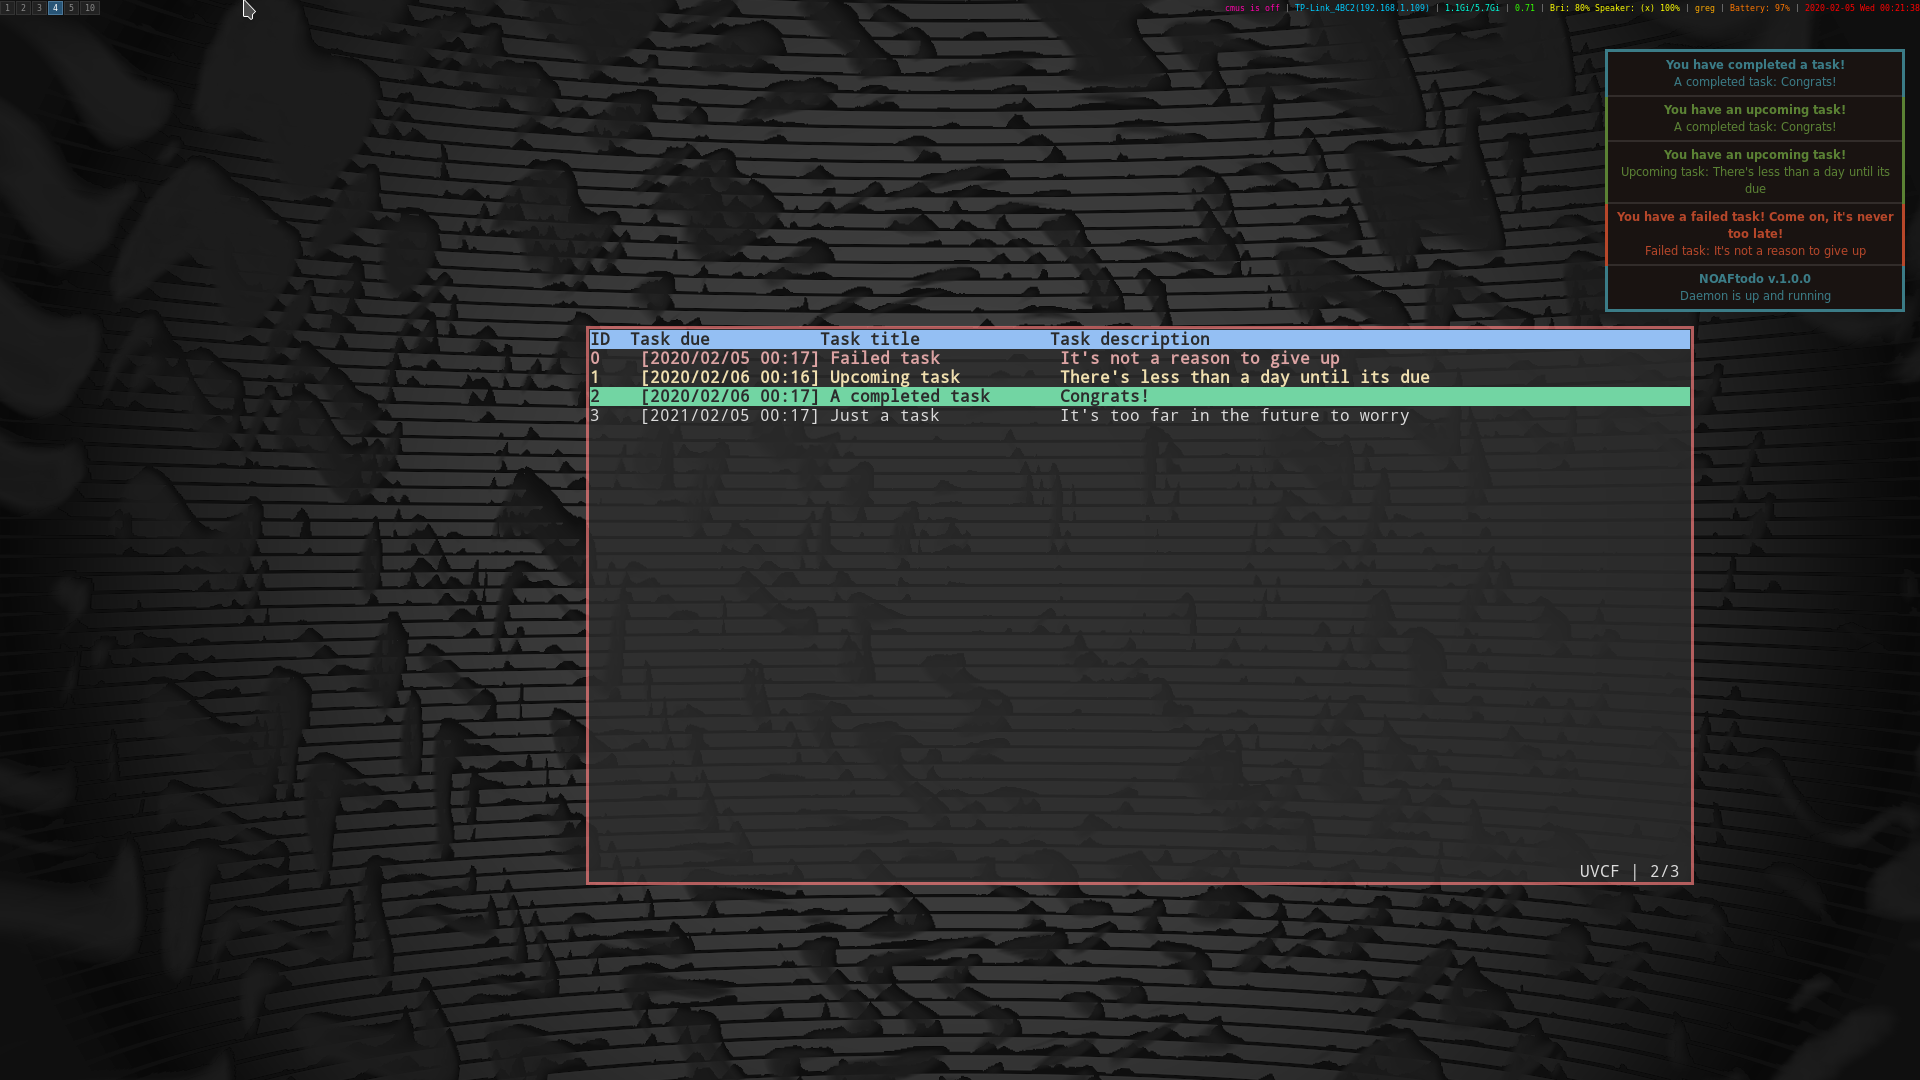
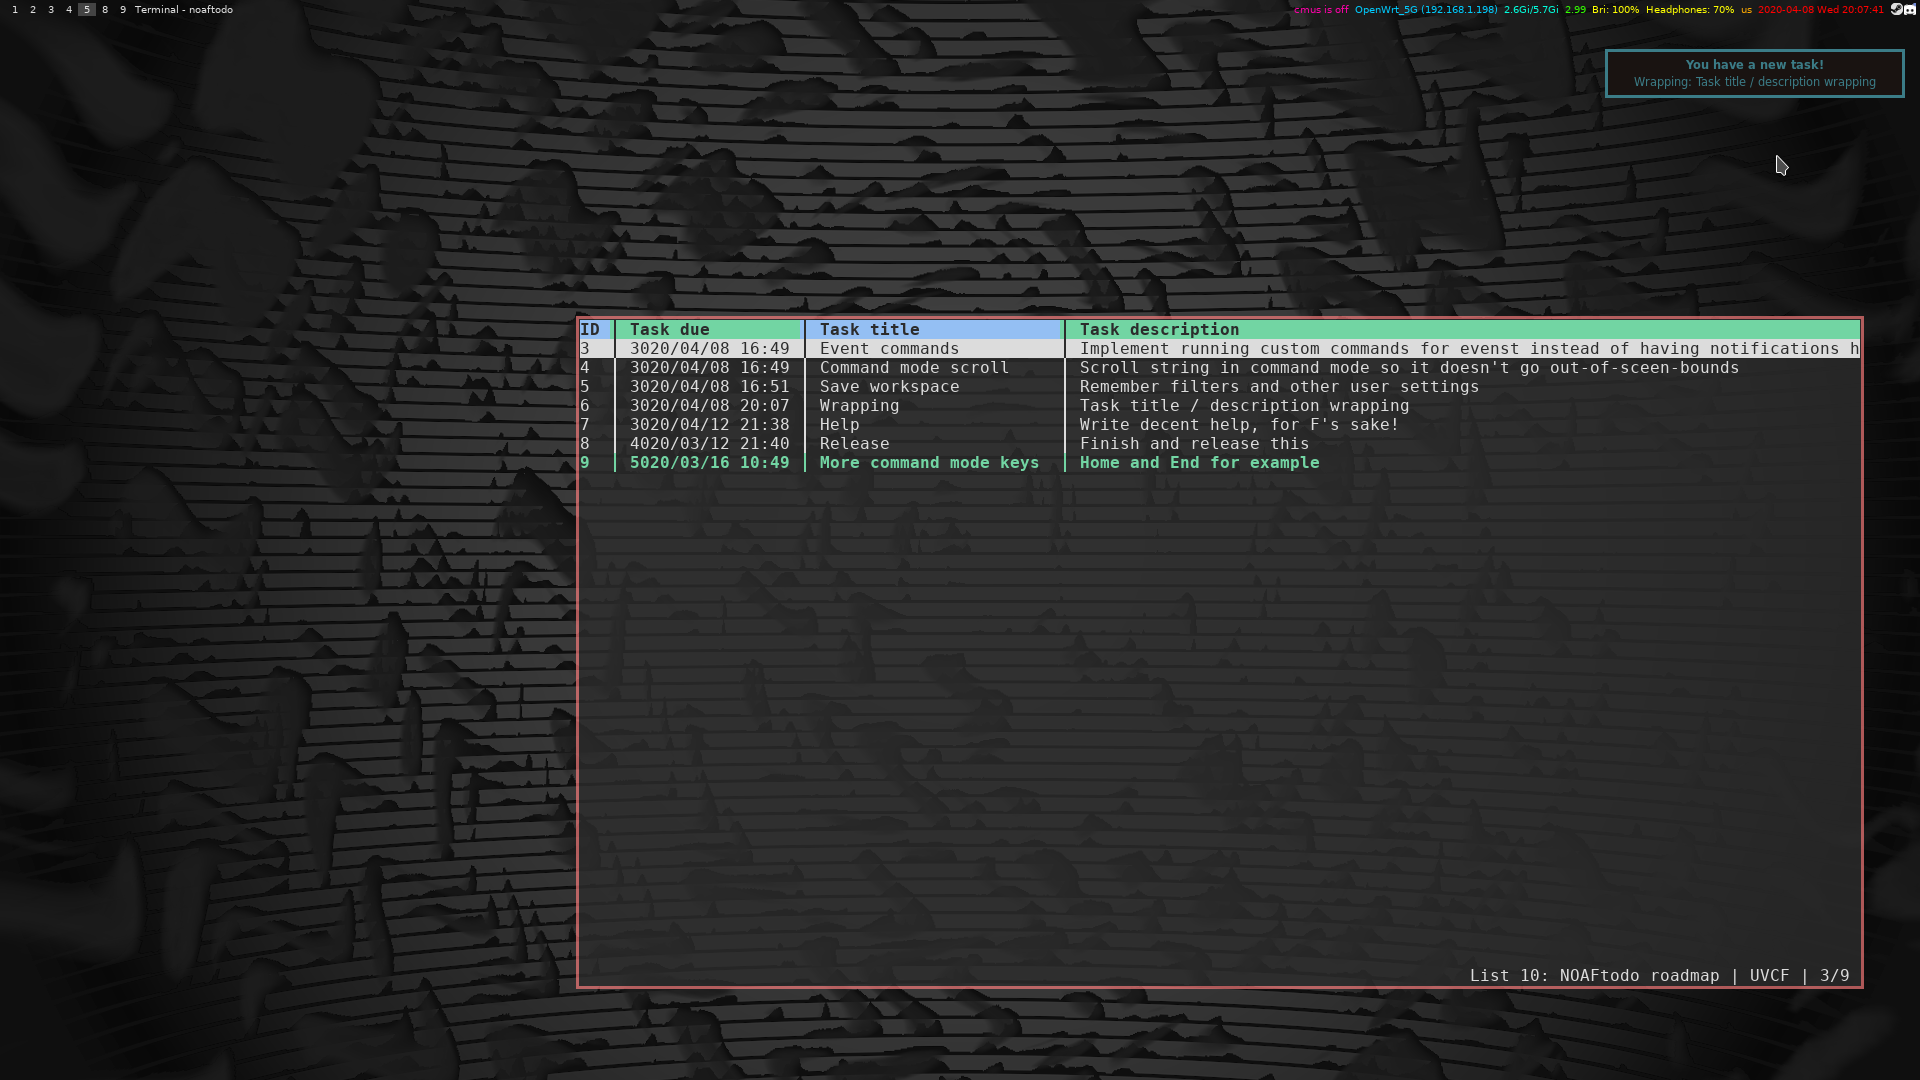
Added description wrapping and scrolling for long commands

diff --git a/src/noaftodo_cui.cpp b/src/noaftodo_cui.cpp
@@ -425,7 +425,27 @@ void cui_normal_paint()
 				addnstr((cui_charset.row_separator + " " + t_list.at(l).title).c_str(), title_chars + 2);
 				x += title_chars + 1;
 				move(l - cui_delta + 1, x);
-				addstr((cui_charset.row_separator + " " + t_list.at(l).description).c_str());
+				wstring next = w_converter.from_bytes(cui_charset.row_separator + " " + t_list.at(l).description);
+				for (int i = 0; i < next.length(); i++)
+				{
+					addstr(w_converter.to_bytes(next.at(i)).c_str());
+					if (i != 0) if (i % (cui_w - x - 2) == 0) if (i != next.length() - 1)
+					{
+						cui_delta--;
+						x = 0;
+						move(l - cui_delta + 1, x);
+						for (int i = 0; i < cui_w; i++) addch(' ');
+						x += id_chars - 1;
+						move(l - cui_delta + 1, x);
+						addnstr((cui_charset.row_separator + " ").c_str(), date_chars + 2);
+						x += date_chars + 1;
+						move(l - cui_delta + 1, x);
+						addnstr((cui_charset.row_separator + " ").c_str(), title_chars + 2);
+						x += title_chars + 1;
+						move(l - cui_delta + 1, x);
+						addstr((cui_charset.row_separator + " ").c_str());
+					}
+				}
 
 				attrset(A_NORMAL);
 				last_string = l - cui_delta + 2;
@@ -499,8 +519,10 @@ void cui_command_paint()
 	move(cui_h - 1, 0);
 	clrtoeol();
 	move(cui_h - 1, 0);
-	addstr(w_converter.to_bytes(L":" + cui_commands[cui_commands.size() - 1]).c_str());
-	move(cui_h - 1, 1 + cui_command_cursor);
+	int offset = cui_command_cursor - cui_w + 3;
+	if (offset < 0) offset = 0;
+	addstr(w_converter.to_bytes(L":" + cui_commands[cui_commands.size() - 1].substr(offset)).c_str());
+	move(cui_h - 1, 1 + cui_command_cursor - offset);
 }
 
 void cui_command_input(const wchar_t& key)

diff --git a/src/noaftodo_list.cpp b/src/noaftodo_list.cpp
@@ -70,7 +70,7 @@ void li_load()
 					} else {
 						if (mode == 0)
 						{
-							log("Added tag \"" + entry + "\" with index " + to_string(t_list.size()));
+							log("Added tag \"" + entry + "\" with index " + to_string(t_tags.size()));
 							t_tags.push_back(entry);
 						}
 
